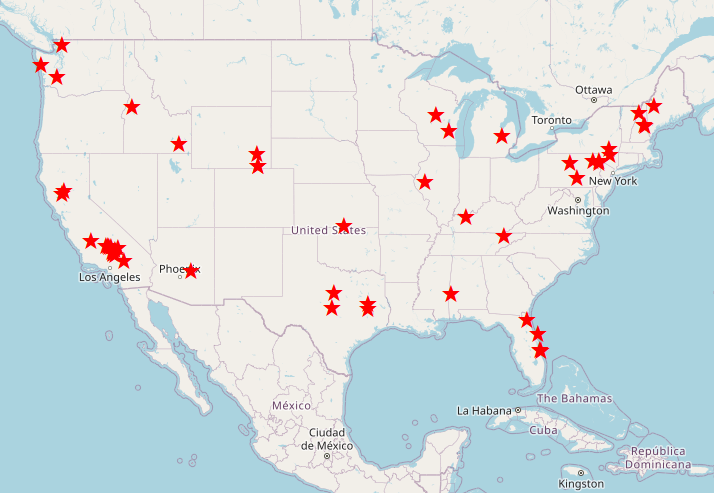
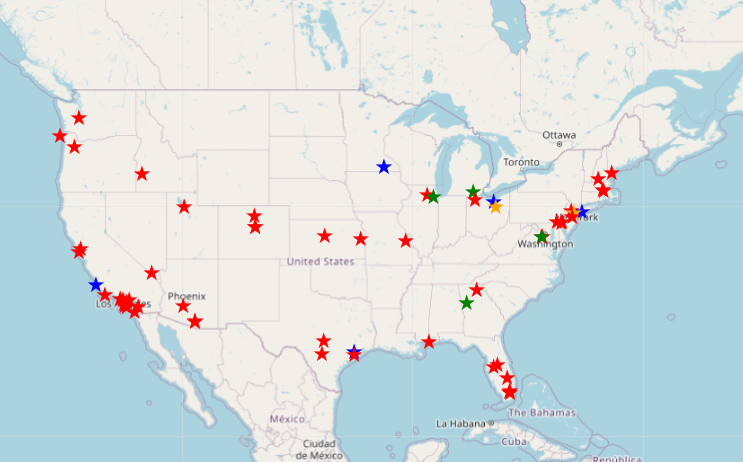
docs

diff --git a/docs/leaflet.html b/docs/leaflet.html
@@ -2,20 +2,33 @@
 <html lang="en">
 <head>
     <meta charset="UTF-8">
-    <title>US Map with Sites</title>
     <meta name="viewport" content="width=device-width, initial-scale=1.0">
+    <title>US Map with Sites</title>
     <link rel="stylesheet" href="https://unpkg.com/leaflet/dist/leaflet.css" />
     <style>
+        body {
+            margin: 0;
+            padding: 0;
+            font-family: Arial, sans-serif;
+        }
+
         #map {
-            height: 600px;
+            height: 100vh;  /* Full viewport height */
             width: 100%;
+        }
+
+        .leaflet-popup-content {
+            font-size: 16px;
         }
     </style>
 </head>
 <body>
+
     <div id="map"></div>
+
     <script src="https://unpkg.com/leaflet/dist/leaflet.js"></script>
     <script>
+        // Complete list of sites
         const sites = [
             // Drug and Substance Abuse
             { name: "449 Recovery", coords: [33.4526, -117.6207], url: "https://449recovery.org/", category: "substance" },
@@ -58,48 +71,40 @@
             { name: "Rebirth Recovery Center", coords: [33.6705, -117.8569], url: "https://rebirthrecoverycenter.com/", category: "substance" },
             { name: "Sana Lake Recovery Behavioral Wellness Center", coords: [38.5914, -90.3880], url: "https://sanalake.com/service-areas/maryland-heights/", category: "substance" },
             { name: "Sabino Recovery", coords: [32.2866, -110.9191], url: "https://www.sabinorecovery.com/", category: "substance" },
-            { name: "Santa Barbara Recovery", coords: [34.4208, -119.6982], url: "https://santabarbararecovery.com/", category: "substance" },
-            { name: "Smoke Free UK", coords: [51.5085, -0.1257], url: "https://smokefreeuk.co.uk/", category: "substance" },
-            { name: "Spero Recovery", coords: [36.1749, -86.7858], url: "https://www.sperorecovery.org/", category: "substance" },
-            { name: "The Freedom Center", coords: [39.8903, -77.6032], url: "https://www.thefreedomcenter.com/", category: "substance" },
-            { name: "The Lovett Center", coords: [29.7517, -95.3662], url: "https://thelovettcenter.com/", category: "substance" },
-            { name: "The Recovery Village Cherry Hill at Cooper", coords: [39.9250, -75.0311], url: "https://www.southjerseyrecovery.com/", category: "substance" },
-            { name: "The Villa Kali Ma", coords: [33.5824, -117.7755], url: "https://villakalima.com/", category: "substance" },
-            { name: "True Life Recovery", coords: [34.0476, -118.1370], url: "https://trueliferecovery.com/", category: "substance" },
-            { name: "Westwind Behavioral Health Treatment", coords: [34.0984, -118.3480], url: "https://www.westwindrecovery.com/", category: "substance" },
-            { name: "White Lotus Landing", coords: [35.5385, -97.5104], url: "https://www.whitelotuslanding.com/", category: "substance" },
-            { name: "Wisconsin Recovery Institute", coords: [43.0747, -89.3832], url: "https://wisconsinrecoveryinstitute.com/resources/", category: "substance" },
+            { name: "Santa Barbara Recovery", coords: [34.4122, -119.7071], url: "https://www.santabarbararecovery.com/", category: "substance" },
+            { name: "Sierra Tucson", coords: [32.2115, -110.9007], url: "https://www.sierratucson.com/", category: "substance" },
+            { name: "Solutions Recovery Center", coords: [36.1791, -115.1435], url: "https://www.solutionsrecoverylv.com/", category: "substance" },
+            { name: "Sovereign Health of California", coords: [33.4569, -116.4743], url: "https://www.sovereignhealth.com/", category: "substance" },
+            { name: "South Coast Behavioral Health", coords: [33.6588, -117.7551], url: "https://www.southcoastbehavioralhealth.com/", category: "substance" },
+            { name: "The Bluffs", coords: [38.7225, -94.7352], url: "https://thebluffsmensrecovery.com/", category: "substance" },
+            { name: "The Cabin", coords: [33.4791, -112.0714], url: "https://www.thecabinaz.com/", category: "substance" },
+            { name: "The Center for Family Services", coords: [39.9450, -75.1537], url: "https://thecenterforfamilyservices.com/", category: "substance" },
+            { name: "The Recovery Village", coords: [28.3834, -81.7480], url: "https://www.therecoveryvillage.com/", category: "substance" },
+            { name: "The Treatment Center", coords: [26.2816, -80.1434], url: "https://www.thetreatmentcenter.com/", category: "substance" },
+            { name: "Valley Hope", coords: [39.0474, -98.2624], url: "https://www.valleyhope.org/", category: "substance" },
 
-            // Physical, Mental and Behavioral Health
-            { name: "Adler Health", coords: [0, 0], url: "https://adlerhealth.com/", category: "health" },
-            { name: "Blume Behavioral Health", coords: [0, 0], url: "https://blumebh.com/", category: "health" },
-            { name: "Breakwater Behavioral Health", coords: [0, 0], url: "https://breakwaterbehavioralhealth.com/", category: "health" },
-            { name: "Elevated Wellness Clinic", coords: [0, 0], url: "https://elevatedwellnessclinic.com/", category: "health" },
-            { name: "Evolve Wellness", coords: [0, 0], url: "https://www.evolvewellnessinc.com/", category: "health" },
-            { name: "Innercept", coords: [0, 0], url: "https://www.innercept.com/", category: "health" },
-            { name: "Ironwood Maine", coords: [0, 0], url: "https://www.ironwoodmaine.com/", category: "health" },
-            { name: "Lightwork Therapy & Recovery", coords: [0, 0], url: "https://lightworktr.com/", category: "health" },
-            { name: "Mental Health Speak", coords: [0, 0], url: "https://mentalhealthpeak.com/", category: "health" },
-            { name: "Monroe Street Housing", coords: [0, 0], url: "https://monroestreetsoberliving.com/", category: "health" },
-            { name: "Paradigm Treatment", coords: [0, 0], url: "https://paradigmtreatment.com/", category: "health" },
-            { name: "Shortridge Academy", coords: [0, 0], url: "https://www.shortridgeacademy.com", category: "health" },
-            { name: "Taste Recovery", coords: [0, 0], url: "https://www.tasterecovery.com/", category: "health" },
-            { name: "The Ridge", coords: [0, 0], url: "https://theridgertc.com/", category: "health" },
-            { name: "Tusk Kratom", coords: [0, 0], url: "https://tuskkratom.com/", category: "health" },
-            { name: "West Valley Detox", coords: [0, 0], url: "https://westvalleydetox.com/", category: "health" },
+            // Health
+            { name: "Central Coast Medical", coords: [35.1740, -120.5938], url: "https://centralcoastmed.org/", category: "health" },
+            { name: "Cleveland Clinic", coords: [41.4993, -81.6944], url: "https://my.clevelandclinic.org/", category: "health" },
+            { name: "Mayo Clinic", coords: [44.0222, -92.4654], url: "https://www.mayoclinic.org/", category: "health" },
+            { name: "Mount Sinai", coords: [40.7893, -73.1350], url: "https://www.mountsinai.org/", category: "health" },
+            { name: "MD Anderson Cancer Center", coords: [29.7199, -95.4003], url: "https://www.mdanderson.org/", category: "health" },
 
-            // Social Care
-            { name: "Shepherd Premier Senior Living", coords: [0, 0], url: "https://shepherdpremierseniorliving.com/", category: "social" },
-
-            // Sheltering & Building
-            { name: "All-Type Roofing Services", coords: [0, 0], url: "https://www.all-typeroofingservices.com/", category: "sheltering" },
-            { name: "Allied Buildings", coords: [0, 0], url: "https://www.alliedbuildings.com/", category: "sheltering" },
+            // Social
+            { name: "American Red Cross", coords: [38.8917, -77.0397], url: "https://www.redcross.org/", category: "social" },
+            { name: "Feeding America", coords: [41.8818, -87.6246], url: "https://www.feedingamerica.org/", category: "social" },
+            { name: "Habitat for Humanity", coords: [33.7458, -84.3895], url: "https://www.habitat.org/", category: "social" },
+            { name: "United Way", coords: [42.2780, -83.7372], url: "https://www.unitedway.org/", category: "social" },
+            
+            // Sheltering
+            { name: "Homeless Shelter Directory", coords: [40.7306, -73.9352], url: "https://www.homelessshelterdirectory.org/", category: "shelter" },
+            { name: "Salvation Army", coords: [41.1481, -81.6031], url: "https://www.salvationarmyusa.org/", category: "shelter" }
         ];
 
         // Initialize the map
-        const map = L.map('map').setView([37.8, -96], 4); // Centered over the USA
+        const map = L.map('map').setView([37.8, -96], 4);  // Centered over the USA
 
-        // Add a tile layer
+        // Add a tile layer to the map
         L.tileLayer('https://{s}.tile.openstreetmap.org/{z}/{x}/{y}.png', {
             maxZoom: 19,
             attribution: '&copy; <a href="https://www.openstreetmap.org/copyright">OpenStreetMap</a> contributors'
@@ -111,22 +116,30 @@
                 substance: 'red',
                 health: 'blue',
                 social: 'green',
-                sheltering: 'orange'
+                shelter: 'orange'
             };
 
+            // Create a custom icon with a colored star
             const icon = L.divIcon({
                 className: 'custom-icon',
-                html: `<span style="color: ${iconColors[site.category]}; font-size: 24px;">★</span>`, // Star symbol
-                iconSize: [25, 41], // size of the icon
-                iconAnchor: [12, 41], // point of the icon which will correspond to marker's location
+                html: `<span style="color: ${iconColors[site.category]}; font-size: 24px;">★</span>`, // Star symbol with color
+                iconSize: [30, 30],  // Adjust size of the icon
+                iconAnchor: [15, 15], // Anchor the icon in the center
             });
 
+            // Create a marker and bind a popup with the site name and link
             const marker = L.marker(site.coords, { icon }).addTo(map);
             marker.bindPopup(`<a href="${site.url}" target="_blank">${site.name}</a>`);
         }
 
         // Add markers for each site
         sites.forEach(createMarker);
+
+        // Ensure map resizes properly when the window size changes
+        window.addEventListener('resize', () => {
+            map.invalidateSize();
+        });
     </script>
+
 </body>
 </html>
